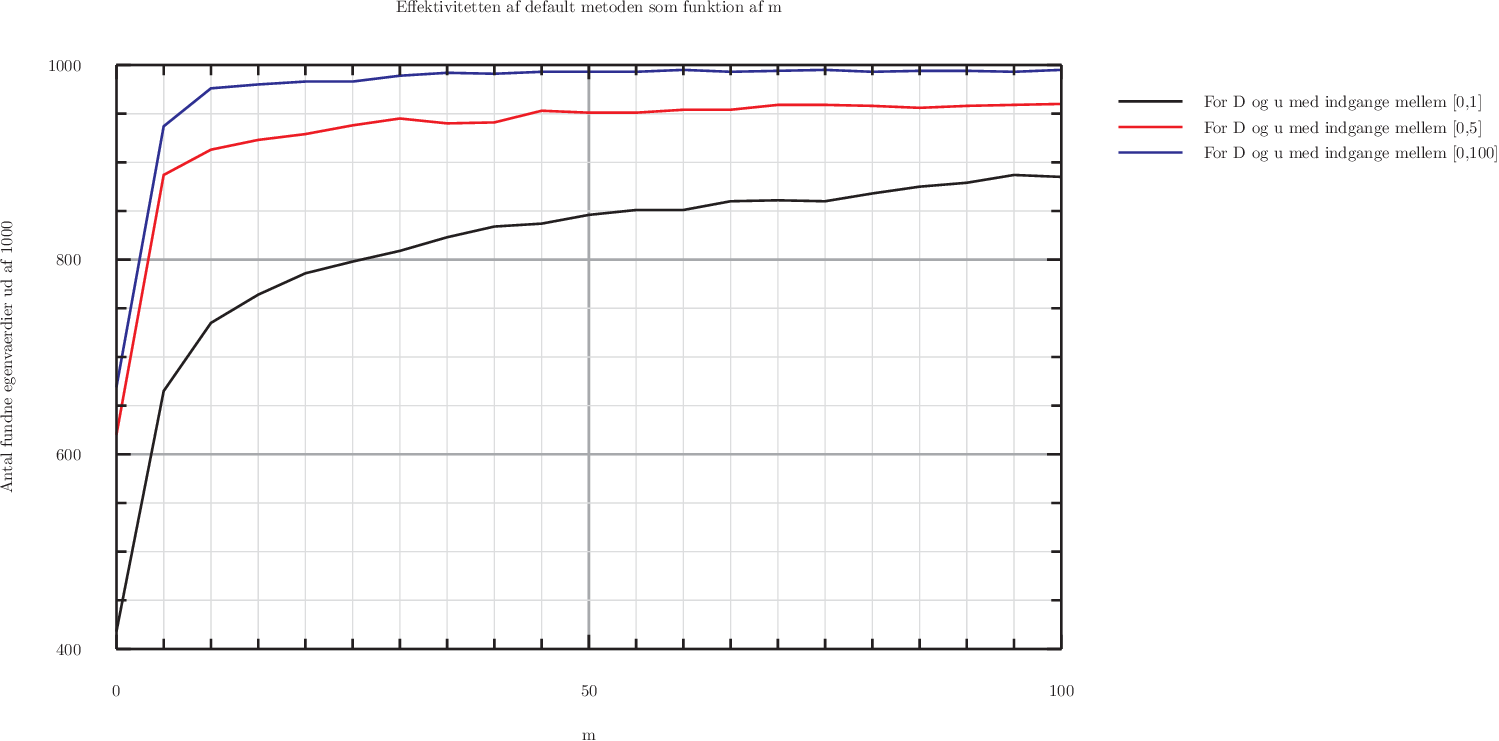
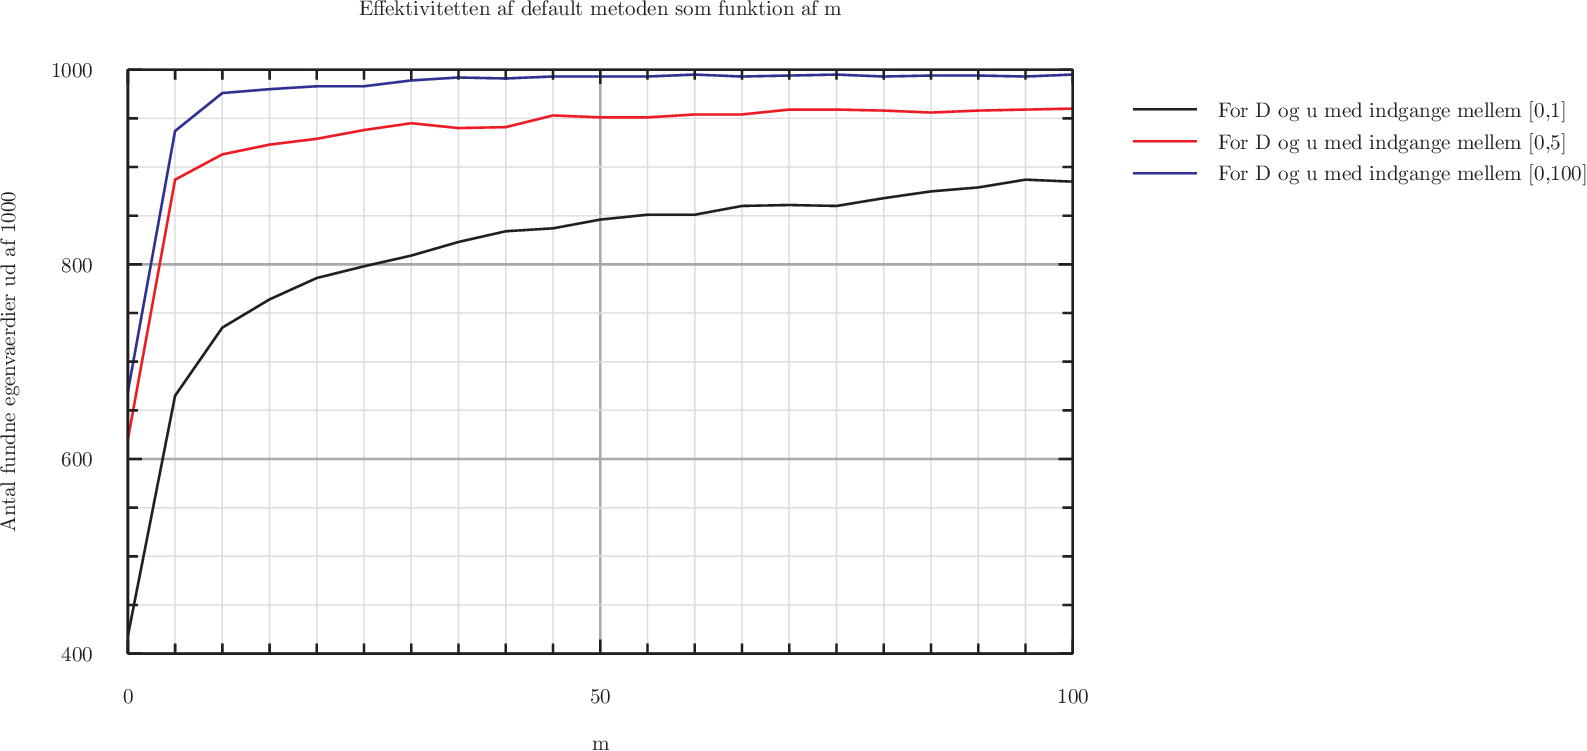
Initial commit

diff --git a/Exam/main.c b/Exam/main.c
@@ -105,10 +105,11 @@ for(int i=0;i<n;i++){
 
 	secular_equation_GSL(Db,ub,p,xb,0.00001);
 	vector_print("Og til sidst får vi igen det ønskede med vores GSL rutine",xb);
-	printf("Alle var igen med en eps=0.00001\n\n\n");
+	printf("Alle var igen med en eps=0.00001\n\n");
+	printf("Et plot af første test kan ses på test.png.\n\n\n");
 
 //Tidstagning
-/*
+
 printf("DEL 2: TIDSTAGNING SOM TEST AF ANTAL OPERATIONER\n");
 printf("Vi prøver her at laver tilfældige dannes D og u'er af henholdvis n=1000 og n=10000, og tager tid på vores rutine.\n");
 printf("Dette er for at opbevise os om at vi bruger O(n^2) operationer, da en stigning i n på 10 burde så medfører en stigning i tid på 100.\n");
@@ -143,41 +144,12 @@ t10 = ((double) (stop - start)) / CLOCKS_PER_SEC;
 printf("Det tog for n=%i så lang tid at nå i mål: \n %g s. \n",n,t1);
 printf("For n=%i tog det så lang tid: \n %g s. \n",n*10,t10);
 printf("De to delt med hinanden giver: \n %g. \n",t10/t1);
-printf("Så en stigning på 10 i n gør det hele ca 100 gange langsommere, hvilket antyder at vi når i mål på O(n^2) operationer");*/
+printf("Så en stigning på 10 i n gør det hele ca 100 gange langsommere, hvilket antyder at vi når i mål på O(n^2) operationer\n");
 
-
-/*
-int L=1000;
-gsl_vector* D1001=gsl_vector_alloc(L);
-gsl_vector* u1001=gsl_vector_alloc(L);
-gsl_vector* x1001=gsl_vector_alloc(L);
-gsl_vector* D1005=gsl_vector_alloc(L);
-gsl_vector* u1005=gsl_vector_alloc(L);
-gsl_vector* x1005=gsl_vector_alloc(L);
-gsl_vector* D1100=gsl_vector_alloc(L);
-gsl_vector* u1100=gsl_vector_alloc(L);
-gsl_vector* x1100=gsl_vector_alloc(L);
-
-for(int i=0;i<L;i++){
-	gsl_vector_set(D1001,i,RND);
-	gsl_vector_set(u1001,i,RND);
-	gsl_vector_set(D1005,i,RND*5);
-	gsl_vector_set(u1005,i,RND*5);
-	gsl_vector_set(D1100,i,RND*100);
-	gsl_vector_set(u1100,i,RND*100);}
-
-for(int i=0;i<=100;i=i+5){
-	int eig1=0;int eig5=0;int eig100=0;
-	secular_equation_default(D1001,u1001,25,x1001,0.0001,i);
-	secular_equation_default(D1005,u1005,25,x1005,0.0001,i);
-	secular_equation_default(D1100,u1100,25,x1100,0.0001,i);
-	for(int j=0;j<L;j++){
-	if(isnan(gsl_vector_get(x1001,j)))eig1++;
-	if(isnan(gsl_vector_get(x1005,j)))eig5++;
-	if(isnan(gsl_vector_get(x1100,j)))eig100++;
-	}
-	printf("%4i %4i %4i %4i\n",i,L-eig1,L-eig5,L-eig100);
-	}*/
+printf("Som en sidste ting har vi undersøgt effektivitetten af default metoden, både i forhold til følsomheden over for\n");
+printf("størrelsen af intervaller, og som funktion af m. Resultatet kan ses på figur effektivitet.png, hvor der er dannet\n");
+printf("tre tilfældige matricer mellem større og større intervaler, og hvor m stiger løbende. Det ses effektivitetten stiger\n");
+printf("og at metoden fungere bedst for storre intervaller. Matricerne der testes på er af størrelse n=1000\n");
 
 
 
